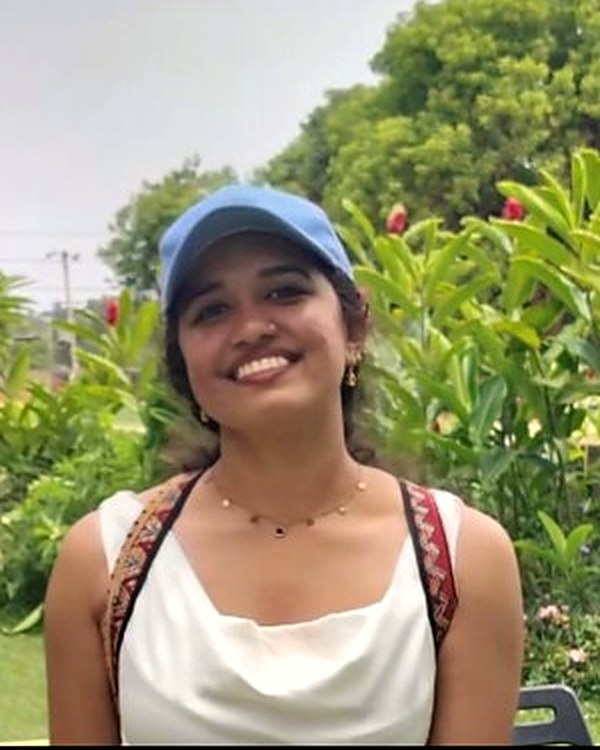
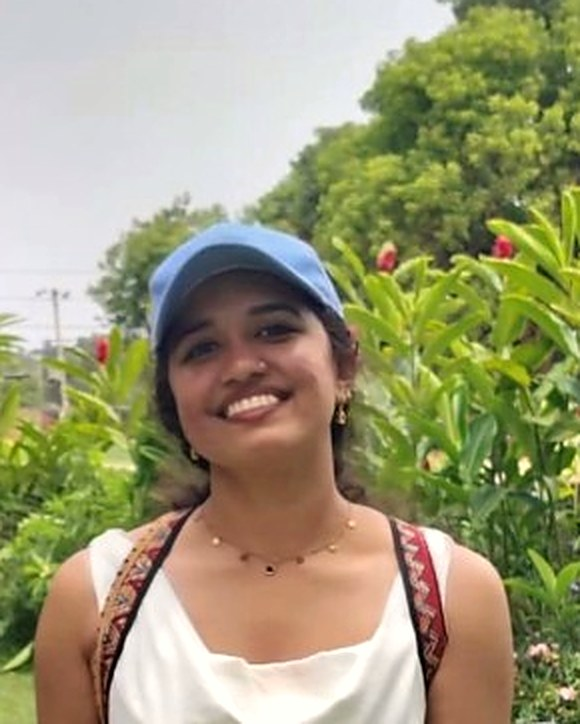
Align About photo with text; clean photo edge

diff --git a/src/app/globals.css b/src/app/globals.css
@@ -2131,16 +2131,16 @@ ol {
 .hero-text > :nth-child(7) { animation-delay: 0.48s; }
 
 .about {
-  align-items: flex-start;
-  justify-content: flex-start;
-  gap: 40px;
+  display: grid;
+  grid-template-columns: 250px 1fr;
+  align-items: stretch;
+  gap: 52px;
 }
 
 .about-photo {
   position: relative;
-  flex-shrink: 0;
-  width: 230px;
-  margin: 0;
+  margin: 0 12px 12px 0; /* room for the offset outline */
+  min-height: 300px;
 }
 
 /* thin accent outline offset behind the photo, a classic editorial frame */
@@ -2156,6 +2156,9 @@ ol {
 
 .about-photo img {
   position: relative;
+  height: 100%;
+  object-fit: cover;
+  object-position: 50% 22%;
   border-radius: 14px;
   box-shadow: 0 18px 36px -22px var(--shadow);
   transition: transform 0.4s ease;
@@ -2172,13 +2175,16 @@ ol {
 .about-photo img {
   display: block;
   width: 100%;
-  height: auto;
 }
 
 .about .about-text {
-  display: grid;
+  display: flex;
+  flex-direction: column;
+  justify-content: center;
   gap: 12px;
   max-width: 640px;
+  padding-left: 0;
+  border-left: none;
 }
 
 .about-heading {
@@ -2305,11 +2311,14 @@ ol {
 
 @media (max-width: 900px) {
   .about {
-    flex-direction: column;
+    grid-template-columns: 1fr;
+    gap: 32px;
   }
 
   .about-photo {
-    width: 180px;
+    width: 220px;
+    height: 275px;
+    min-height: 0;
   }
 
   .case-grid {

diff --git a/src/components/Sections.tsx b/src/components/Sections.tsx
@@ -46,7 +46,7 @@ export function About() {
     <Section id="about" index={1} title="About">
       <div className="about">
         <figure className="about-photo">
-          <img src="/devika.jpg" alt="Portrait of Devika C., software engineer" width={600} height={750} loading="lazy" />
+          <img src="/devika.jpg" alt="Portrait of Devika C., software engineer" width={580} height={724} loading="lazy" />
         </figure>
         <div className="about-text">
           <h3 className="about-heading">A little about me</h3>

diff --git a/src/app/layout.tsx b/src/app/layout.tsx
@@ -30,7 +30,7 @@ export const metadata: Metadata = {
     siteName: `${profile.name} Portfolio`,
     title: SITE_TITLE,
     description: SITE_DESCRIPTION,
-    images: [{ url: "/devika.jpg", width: 600, height: 750, alt: "Portrait of Devika C." }],
+    images: [{ url: "/devika.jpg", width: 580, height: 724, alt: "Portrait of Devika C." }],
   },
   twitter: {
     card: "summary",
